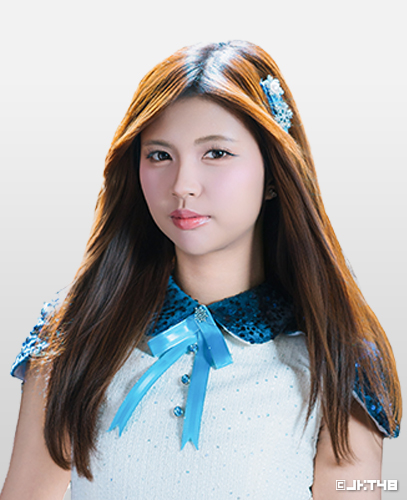
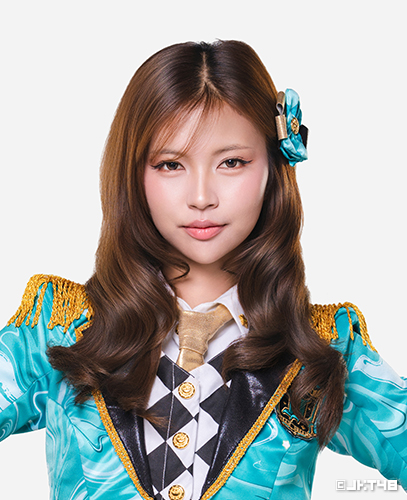
Update Dream Team and it's setlist

diff --git a/src/data/setlistSongs.js b/src/data/setlistSongs.js
@@ -377,4 +377,23 @@ export const setlistSongs = {
         "Tegami no Koto (Tentang Suratku)"
     ],
 
+    "Dream Bakudan": [
+        "Wakaka People",
+        "Sekarang Para Para",
+        "Angin Musim Semi Pertama",
+        "Tak Ingin Jadi Orang Hebat",
+        "Bird",
+        "Pulang Kampung",
+        "Dua Orang yang Terlarang",
+        "Berandalan Di Surga",
+        "Kenyataan yang Telah Ternoda",
+        "Garis Pergantian Hari Cinta",
+        "Kebenaran Tinju Ini",
+        "Rasa Sayang yang Dulu Aku Remehkan",
+        "Flying High",
+        "Team Dream Oshi",
+        "Adrenalin Masa Puber",
+        "Ingin Meraih Puncak"
+    ],
+
 };

diff --git a/src/data/SetlistData.js b/src/data/SetlistData.js
@@ -7,6 +7,7 @@ export const setlistFiles = [
     'Cara_Meminum_Ramune.jpg',
     'Demi_Seseorang.jpg',
     'Dewi_Theater.jpg',
+    'Dream_Bakudan.png',
     'Fajar_Sang_Idola.jpg',
     'Fly!_Team_T.jpg',
     'Gadis_Gadis_Remaja.jpg',
@@ -20,5 +21,5 @@ export const setlistFiles = [
     'Romansa_Sang_Gadis.jpg',
     'Sambil_Menggandeng_Erat_Tanganku.jpg',
     'Sekarang_Sedang_Jatuh_Cinta.jpg',
-    'Tunas_di_Balik_Seragam.jpg'
+    'Tunas_di_Balik_Seragam.jpg',
 ];

diff --git a/src/data/DreamSetlist_Songs.js b/src/data/DreamSetlist_Songs.js
@@ -440,6 +440,8 @@ const dreamSetlistSongs = [
   { id: 'song441', title: 'Percik Kecil' },
   { id: 'song442', title: "Andai 'Ku Bukan Idola" },
   { id: 'song443', title: "Dekat Namun Jauh" },
+  { id: 'song444', title: "Wakaka People" },
+
 
   // ... (continue for all songs provided by the user, incrementing id)
 ];

diff --git a/src/data/spv_mv.js b/src/data/spv_mv.js
@@ -50,6 +50,7 @@ export const mvFiles = [
     'Sweet_&_Bitter.webp',
     'UZA.webp',
     'Value_Milikku_Saja.webp',
+    'WAKAKA_PEOPLE.webp',
     'Waktunya Membuktikan - JKT48 X Musikal Keluarga Cemara.webp',
     'Yuuhi_wo_Miteiruka_(Apakah_Kau_Melihat_Mentari_Senja).webp'
 
